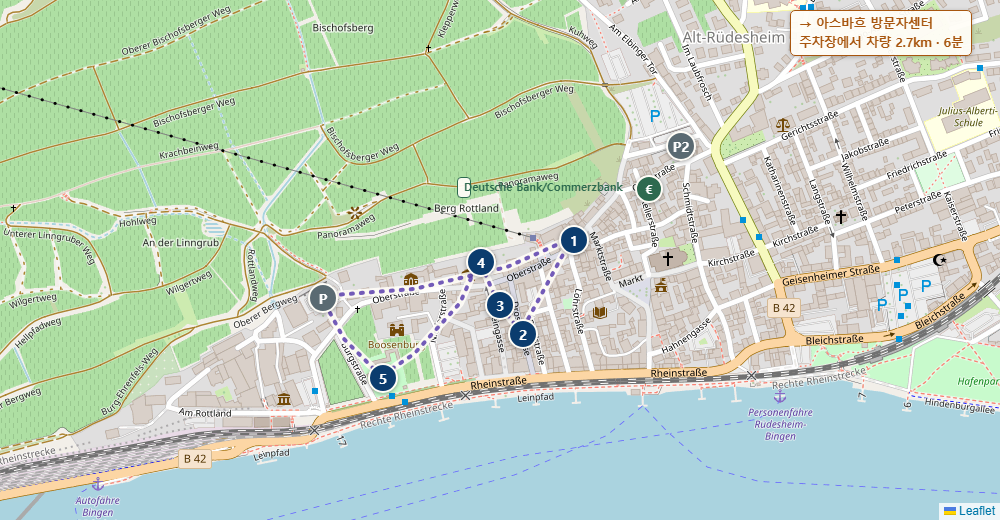
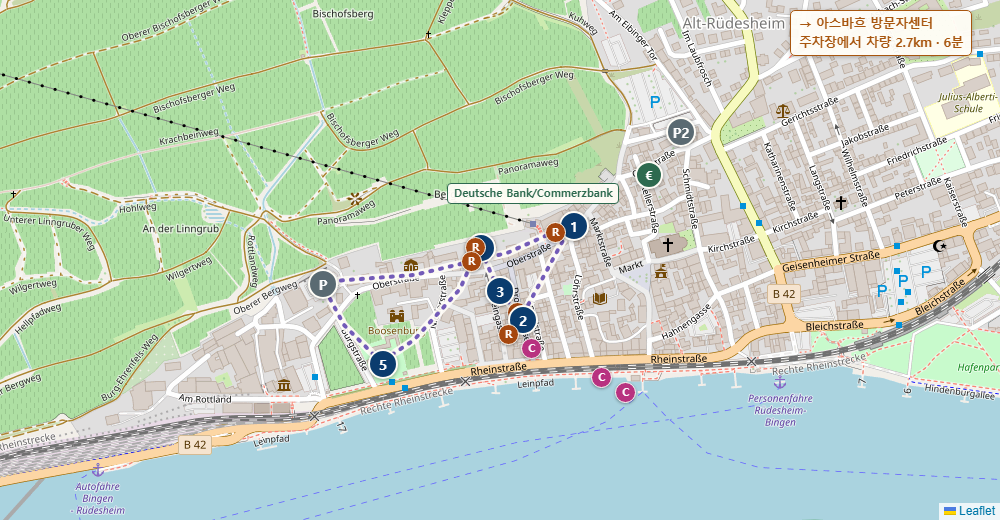
하이델베르크·뤼데스하임 지도에 맛집(R)·디저트카페(C) 핀 추가, 라벨 버그 수정

diff --git a/germany-roadtrip-planner.html b/germany-roadtrip-planner.html
@@ -3763,7 +3763,7 @@ document.addEventListener('DOMContentLoaded', function(){
       <a class="walk-map-link" href="https://www.google.com/maps/dir/?api=1&travelmode=walking&origin=49.4093,8.7135&destination=49.4093,8.7135&waypoints=49.4122%2C8.7104%7C49.4121%2C8.7097%7C49.4114%2C8.7062%7C49.4113%2C8.7064%7C49.4142%2C8.7096%7C49.4158,8.7057" target="_blank" rel="noopener">📍 Google 지도로 도보 코스 보기(성 등산철도역 출발·도착) · 총 약 4.3km · 도보 약 1시간 18분</a>
       <div class="route-snapshot">
         <div class="route-snapshot-media">
-          <img src="images/routes/heidelberg.png?v=6" alt="하이델베르크 도보 코스 지도 스냅샷 — Sparkasse ATM 위치 포함, 만차 시 대안 주차장(P1 Poststraße) 화살표 표시" loading="lazy" width="1000" height="620">
+          <img src="images/routes/heidelberg.png?v=7" alt="하이델베르크 도보 코스 지도 스냅샷 — Sparkasse ATM 위치, 만차 시 대안 주차장(P1 Poststraße) 화살표, 맛집(R)·디저트카페(C) 표시" loading="lazy" width="1000" height="620">
         </div>
         <ol class="route-steps">
         <li><span class="rs-name">하이델베르크 성(Schloss)</span></li>
@@ -4301,7 +4301,7 @@ document.addEventListener('DOMContentLoaded', function(){
       <a class="walk-map-link" href="https://www.google.com/maps/dir/?api=1&travelmode=walking&origin=49.9788,7.9165&destination=49.9788,7.9165&waypoints=49.9796%2C7.9219%7C49.9783%2C7.9208%7C49.9787,7.9203%7C49.9793,7.9199%7C49.9777,7.9178" target="_blank" rel="noopener">📍 Google 지도로 도보 코스 보기(출발·도착: P10 Feldtor 주차장) · 총 약 1.3km · 도보 약 16분</a>
       <div class="route-snapshot">
         <div class="route-snapshot-media">
-          <img src="images/routes/ruedesheim.png?v=8" alt="뤼데스하임 도보 코스 지도 스냅샷 — Deutsche Bank/Commerzbank ATM·만차 시 대안 주차장(P2 An der Ringmauer) 위치 포함" loading="lazy" width="1000" height="520">
+          <img src="images/routes/ruedesheim.png?v=9" alt="뤼데스하임 도보 코스 지도 스냅샷 — Deutsche Bank/Commerzbank ATM·만차 시 대안 주차장(P2 An der Ringmauer)·맛집(R)·디저트카페(C) 위치 포함" loading="lazy" width="1000" height="520">
         </div>
         <ol class="route-steps">
         <li class="rs-p"><span class="rs-name">P10 Feldtor 주차장</span></li>

diff --git a/index.html b/index.html
@@ -3763,7 +3763,7 @@ document.addEventListener('DOMContentLoaded', function(){
       <a class="walk-map-link" href="https://www.google.com/maps/dir/?api=1&travelmode=walking&origin=49.4093,8.7135&destination=49.4093,8.7135&waypoints=49.4122%2C8.7104%7C49.4121%2C8.7097%7C49.4114%2C8.7062%7C49.4113%2C8.7064%7C49.4142%2C8.7096%7C49.4158,8.7057" target="_blank" rel="noopener">📍 Google 지도로 도보 코스 보기(성 등산철도역 출발·도착) · 총 약 4.3km · 도보 약 1시간 18분</a>
       <div class="route-snapshot">
         <div class="route-snapshot-media">
-          <img src="images/routes/heidelberg.png?v=6" alt="하이델베르크 도보 코스 지도 스냅샷 — Sparkasse ATM 위치 포함, 만차 시 대안 주차장(P1 Poststraße) 화살표 표시" loading="lazy" width="1000" height="620">
+          <img src="images/routes/heidelberg.png?v=7" alt="하이델베르크 도보 코스 지도 스냅샷 — Sparkasse ATM 위치, 만차 시 대안 주차장(P1 Poststraße) 화살표, 맛집(R)·디저트카페(C) 표시" loading="lazy" width="1000" height="620">
         </div>
         <ol class="route-steps">
         <li><span class="rs-name">하이델베르크 성(Schloss)</span></li>
@@ -4301,7 +4301,7 @@ document.addEventListener('DOMContentLoaded', function(){
       <a class="walk-map-link" href="https://www.google.com/maps/dir/?api=1&travelmode=walking&origin=49.9788,7.9165&destination=49.9788,7.9165&waypoints=49.9796%2C7.9219%7C49.9783%2C7.9208%7C49.9787,7.9203%7C49.9793,7.9199%7C49.9777,7.9178" target="_blank" rel="noopener">📍 Google 지도로 도보 코스 보기(출발·도착: P10 Feldtor 주차장) · 총 약 1.3km · 도보 약 16분</a>
       <div class="route-snapshot">
         <div class="route-snapshot-media">
-          <img src="images/routes/ruedesheim.png?v=8" alt="뤼데스하임 도보 코스 지도 스냅샷 — Deutsche Bank/Commerzbank ATM·만차 시 대안 주차장(P2 An der Ringmauer) 위치 포함" loading="lazy" width="1000" height="520">
+          <img src="images/routes/ruedesheim.png?v=9" alt="뤼데스하임 도보 코스 지도 스냅샷 — Deutsche Bank/Commerzbank ATM·만차 시 대안 주차장(P2 An der Ringmauer)·맛집(R)·디저트카페(C) 위치 포함" loading="lazy" width="1000" height="520">
         </div>
         <ol class="route-steps">
         <li class="rs-p"><span class="rs-name">P10 Feldtor 주차장</span></li>
